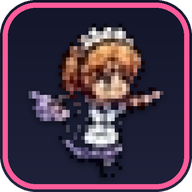
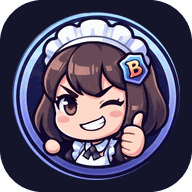
릴리 새 그림 적용: 제목 옆 로고·앱 아이콘은 둥근 배지, 링크 미리보기 새로, 펜라이트 무대 회전 춤·만세, 도쿄 원정 걷기
Claude-Session: https://claude.ai/code/session_015GuvKGyh8ChQWvv6aTLfdb

diff --git a/index.html b/index.html
@@ -63,9 +63,9 @@ body{margin:0;background:var(--bg);color:var(--ink);
 body::before{content:"";position:fixed;inset:0 0 auto;height:env(safe-area-inset-top,0px);z-index:10;background:var(--bg)}
 .wrap{max-width:760px;margin:0 auto;padding:20px 16px 64px}
 h1{font-family:"Black Han Sans","IBM Plex Sans KR",sans-serif;font-weight:400;font-size:34px;line-height:1.1;margin:8px 0 4px;letter-spacing:-.5px}
-/* 사이트 대표 캐릭터 메이드 버스터 릴리(弾幕 자기 그림 assets/game/player.png)를 제목 옆에. CSS 로만 둥실거린다 */
+/* 사이트 대표 캐릭터 메이드 버스터 릴리: 2026-10 말 운영자 새 그림의 둥근 배지(assets/lilly/badge.png, assets/lilly/extract.py)를 제목 옆에. CSS 로만 둥실거린다 */
 .brand{display:flex;align-items:center;gap:10px}
-.brand .lilly{height:54px;width:auto;image-rendering:pixelated;animation:lilly-bob 2.4s ease-in-out infinite;filter:drop-shadow(0 3px 3px rgba(0,0,0,.25));flex:none}
+.brand .lilly{height:52px;width:52px;border-radius:50%;animation:lilly-bob 2.4s ease-in-out infinite;filter:drop-shadow(0 3px 4px rgba(0,0,0,.28));flex:none}
 @keyframes lilly-bob{0%,100%{transform:translateY(0) rotate(-2deg)}50%{transform:translateY(-5px) rotate(2deg)}}
 @media (prefers-reduced-motion:reduce){.brand .lilly{animation:none}}
 .sub{color:var(--muted);margin:0 0 18px;font-size:14px}
@@ -513,7 +513,7 @@ textarea{min-height:110px;resize:vertical}
 </head>
 <body>
 <div class="wrap">
-  <div class="brand"><img class="lilly" src="assets/game/player.png" alt="" width="36" height="41" decoding="async"><h1>마토메 보드</h1></div>
+  <div class="brand"><img class="lilly" src="assets/lilly/badge.png" alt="" width="52" height="52" decoding="async"><h1>마토메 보드</h1></div>
   <div class="topbar">
     <p class="sub" id="storeNote">일본 게임·애니·버튜버·만화 공연과 이벤트 소식</p>
     <div class="langsw" role="group" aria-label="표시 언어"><button type="button" data-lang="ja" aria-pressed="true">原文</button><button type="button" data-lang="ko" aria-pressed="false">한국어</button></div>
@@ -1046,7 +1046,7 @@ async function weekendShot(){
   g.fillStyle=C.pink;g.fillRect(0,0,W,14);
   F(400,84,"Black Han Sans");g.fillStyle=C.ink;g.textBaseline="top";g.fillText("마토메 보드",60,70);
   F(500,34);g.fillStyle=C.mut;g.fillText("일본 게임·애니·버튜버·만화 소식",60,175);
-  try{const im=$(".brand .lilly");if(im&&im.complete&&im.naturalWidth){g.imageSmoothingEnabled=false;g.drawImage(im,W-60-im.naturalWidth*5,50,im.naturalWidth*5,im.naturalHeight*5);g.imageSmoothingEnabled=true}}catch{}
+  try{const im=$(".brand .lilly");if(im&&im.complete&&im.naturalWidth){g.save();g.shadowColor="rgba(0,0,0,.45)";g.shadowBlur=24;g.drawImage(im,W-60-190,46,190,190);g.restore()}}catch{}
   let y=270;
   g.fillStyle=C.sur;g.beginPath();g.roundRect(60,y,W-120,96,20);g.fill();
   F(700,40);g.fillStyle=C.pink;g.fillText("이번 주말",90,y+26);

diff --git a/assets/lilly/og.html b/assets/lilly/og.html
@@ -1,0 +1,25 @@
+<!doctype html><html><head><meta charset="utf-8">
+<!-- 링크 미리보기 그림 assets/og.png(1200×630)의 원본. assets/lilly 폴더를 http 로 띄워 1200×630 창에서 스크린샷한다(poster.jpg·badge.png 는 extract.py 가 만든다). 클라우드 세션의 Chromium 은 Google Fonts 를 못 받으니 그땐 글꼴 woff2 를 따로 받아 @font-face 로 넣는다. -->
+<link href="https://fonts.googleapis.com/css2?family=Black+Han+Sans&family=IBM+Plex+Sans+KR:wght@400;500;700&display=swap" rel="stylesheet">
+<style>
+*{box-sizing:border-box}body{margin:0}
+.og{position:relative;width:1200px;height:630px;overflow:hidden;font-family:"IBM Plex Sans KR",sans-serif;color:#ECEDF6;
+ background:radial-gradient(900px 520px at 0% 0%,#4a1d45 0%,transparent 60%),radial-gradient(700px 500px at 100% 100%,#123e4f 0%,transparent 60%),#13152A}
+.art{position:absolute;right:-30px;top:-20px;width:600px;height:680px;background:url(poster.jpg) 55% 18%/cover;
+ -webkit-mask-image:linear-gradient(90deg,transparent 0,#000 34%);mask-image:linear-gradient(90deg,transparent 0,#000 34%)}
+.art::after{content:"";position:absolute;inset:0;background:linear-gradient(0deg,#13152A 0,transparent 30%)}
+.left{position:absolute;left:84px;top:96px;width:720px}
+.k{font-weight:700;letter-spacing:.18em;font-size:21px;color:#FF5C9A}
+h1{font-family:"Black Han Sans";font-weight:400;font-size:112px;line-height:1.02;margin:14px 0 24px;letter-spacing:-2px;display:flex;align-items:center;gap:20px;white-space:nowrap}
+h1 img{width:104px;height:104px;border-radius:50%;filter:drop-shadow(0 8px 18px rgba(0,0,0,.5))}
+p{font-size:27px;line-height:1.55;margin:0;color:#C9CBE0} p b{color:#fff}
+.chips{display:flex;gap:12px;margin-top:30px}
+.chips span{display:flex;align-items:center;gap:9px;padding:9px 18px;border-radius:999px;background:rgba(255,255,255,.07);border:1px solid rgba(255,255,255,.14);font-size:20px;font-weight:700}
+.chips i{width:11px;height:11px;border-radius:50%}
+.url{position:absolute;left:84px;bottom:46px;font-size:21px;color:#9A9EBB}
+</style></head><body><div class="og"><div class="art"></div><div class="left">
+<div class="k">JAPAN EVENTS · まとめ</div>
+<h1>마토메 보드<img src="badge.png"></h1>
+<p>일본 <b>게임·애니·버튜버·만화</b>의 공연·콜라보·팝업·전시 소식을<br>한곳에 모아 하루 네 번 갱신</p>
+<div class="chips"><span><i style="background:#FF5C9A"></i>공연</span><span><i style="background:#F2B655"></i>콜라보·팝업</span><span><i style="background:#4FC3D9"></i>전시</span><span><i style="background:#A893FF"></i>버튜버</span></div>
+</div><div class="url">davidim-dotcom.github.io/matome-board</div></div></body></html>

diff --git a/games/penlight.html b/games/penlight.html
@@ -92,7 +92,8 @@ const clamp=(v,a,b)=>Math.max(a,Math.min(b,v));
 function fit(){const r=Math.min(3,window.devicePixelRatio||1);cv.width=W*r;cv.height=H*r;cx.setTransform(r,0,0,r,0,0)}fit();
 
 // ---------- 그림(저장소 도트) ----------
-const IMG={};for(const [k,f] of [['lilly','../assets/game/player.png'],['lillyB','../assets/game/skill_b.png'],['sora','../assets/game/hc_sora_m.png'],['miko','../assets/game/hc_miko_m.png'],['cat','../assets/game/cat.png']]){const i=new Image();i.src=f;IMG[k]=i}
+// 릴리 춤(2026-10 말 새 도트, assets/lilly/extract.py): 한 줄에 8칸 — 평소 twirl(회전 춤, 제목·결과에서는 천천히), FEVER jig(만세)
+const IMG={};for(const [k,f] of [['twirl','../assets/lilly/anim_twirl.png'],['jig','../assets/lilly/anim_jig.png'],['sora','../assets/game/hc_sora_m.png'],['miko','../assets/game/hc_miko_m.png'],['cat','../assets/game/cat.png']]){const i=new Image();i.src=f;IMG[k]=i}
 cx.imageSmoothingEnabled=false;
 
 // ---------- 소리(칩튠: ラン 과 같은 방식) ----------
@@ -337,8 +338,9 @@ function drawStage(now,beat){const TH=theme();
   cx.fillStyle='#ffe3f3';cx.font='bold 13px "Black Han Sans",sans-serif';cx.textAlign='center';cx.fillText(SONGS[songI].name,W/2,48);
   cx.font='11px monospace';cx.fillStyle='#b8a8ff';cx.fillText(G.state==='play'?`${LEVELS[lvI].name}  COMBO ${G.combo}`:'PENLIGHT ON STAGE',W/2,68);
   // 아이돌(릴리)·백댄서
-  const bob=Math.abs(Math.sin(beat*Math.PI))*6;const L=fever?IMG.lillyB:IMG.lilly;
-  if(L.complete&&L.naturalWidth){const s=2.4;cx.drawImage(L,W/2-L.naturalWidth*s/2,184-L.naturalHeight*s-bob,L.naturalWidth*s,L.naturalHeight*s)}
+  const L=fever?IMG.jig:IMG.twirl;
+  if(L.complete&&L.naturalWidth){const fw=L.naturalWidth/8,fh=L.naturalHeight,f=(G.state==='play'?Math.floor(beat*2):G.state==='pause'?Math.floor(G.pauseAt*2):Math.floor(now*3))%8,s=112/fh; // 박자에 두 칸씩(4박에 한 바퀴)
+    cx.drawImage(L,((f%8)+8)%8*fw,0,fw,fh,W/2-fw*s/2,186-fh*s,fw*s,fh*s)}
   for(const [k,x,ph] of [['sora',96,0],['miko',264,.5]]){const im=IMG[k];if(im.complete&&im.naturalWidth){const s=2.2,b=Math.abs(Math.sin((beat+ph)*Math.PI))*5;cx.drawImage(im,x-im.naturalWidth*s/2,184-im.naturalHeight*s-b,im.naturalWidth*s,im.naturalHeight*s)}}
   // 콜 글자
   if(G.callText&&G.callText.t<1.1){const k=G.callText.t;cx.save();cx.globalAlpha=1-Math.max(0,k-.6)/.5;cx.font=`bold ${28+k*14}px "Black Han Sans",sans-serif`;cx.fillStyle='#fff';cx.strokeStyle='#ff4f9a';cx.lineWidth=5;cx.textAlign='center';cx.strokeText(G.callText.text,W/2,120);cx.fillText(G.callText.text,W/2,120);cx.restore()}}

diff --git a/games/ensei.html b/games/ensei.html
@@ -213,8 +213,9 @@ function renderMap(){cx.clearRect(0,0,W,H);cx.fillStyle=css('--sea')||'#0f1124';
     cx.fillStyle='#fff';cx.font='bold 11px sans-serif';cx.textAlign='center';cx.fillText(done?'✓':String(sp.i+1),x,y+4);cx.globalAlpha=1}
   // 지금 위치(이동 중이면 사이)
   let at=proj([S.at.lat,S.at.lon]);if(S.anim){const k=Math.min(1,(performance.now()-S.anim.t0)/S.anim.dur),a=proj([S.anim.from.lat,S.anim.from.lon]),b=proj([S.anim.to.lat,S.anim.to.lon]);at=[a[0]+(b[0]-a[0])*k,a[1]+(b[1]-a[1])*k-Math.sin(k*Math.PI)*16]}
-  if(ME.complete&&ME.naturalWidth){cx.imageSmoothingEnabled=false;cx.drawImage(ME,at[0]-ME.naturalWidth*.7,at[1]-ME.naturalHeight*1.4,ME.naturalWidth*1.4,ME.naturalHeight*1.4)}else{cx.fillStyle=css('--pink');cx.beginPath();cx.arc(at[0],at[1],6,0,Math.PI*2);cx.fill()}}
-const ME=new Image();ME.src='../assets/game/player.png';ME.onload=()=>S&&renderMap();
+  if(ME.complete&&ME.naturalWidth){const fw=ME.naturalWidth/8,fh=ME.naturalHeight,s=50/fh,f=S.anim?Math.floor(performance.now()/90)%8:0,left=S.anim&&S.anim.to.lon<S.anim.from.lon; // 걷기 8칸, 이동 중에만 걷고 왼쪽으로 가면 뒤집는다
+    cx.save();cx.translate(at[0],at[1]);if(left)cx.scale(-1,1);cx.drawImage(ME,f*fw,0,fw,fh,-fw*s/2,-fh*s,fw*s,fh*s);cx.restore()}else{cx.fillStyle=css('--pink');cx.beginPath();cx.arc(at[0],at[1],6,0,Math.PI*2);cx.fill()}}
+const ME=new Image();ME.src='../assets/lilly/anim_walk.png';ME.onload=()=>S&&renderMap();
 function animate(){renderMap();if(S.anim)requestAnimationFrame(animate)}
 cv.addEventListener('click',e=>{if(S.over)return;const r=cv.getBoundingClientRect(),x=(e.clientX-r.left)*W/r.width,y=(e.clientY-r.top)*H/r.height;let best=null,bd=22;
   for(const sp of spots){const [px,py]=proj([sp.lat,sp.lon]),d=Math.hypot(px-x,py-y);if(d<bd){bd=d;best=sp}}if(best){S.sel=best.i;render();renderMap()}});

diff --git a/assets/lilly/extract.py b/assets/lilly/extract.py
@@ -1,0 +1,151 @@
+"""메이드 버스터 릴리 새 그림(2026-10 말, 운영자가 Gemini 로 만든 시트)을 잘라 보드에 쓸 PNG 로 만든다.
+
+  python3 assets/lilly/extract.py        # assets/lilly/*.png 와 앱 아이콘(assets/icon-*.png, apple-touch-icon.png)을 다시 씀
+
+src/poster.jpg  (2816×1536): 가운데 포스터(날개 달고 쏘는 릴리)와 오른쪽 둥근 배지(윙크·엄지척 얼굴)
+src/dossier.jpg (2816×1536): 9열×8행 도트 애니메이션 시트(대기·인사·기지개·걷기·달리기·대시·회전 춤·만세·테크노),
+                              칸마다 남색 우주 배경 + 격자선
+결과
+  badge.png        둥근 배지 512px(원 밖 투명) — 제목 옆 로고·아이콘·주말 한 장
+  poster.png       포스터 윗부분(글자 위까지) — og 그림용
+  anim_<이름>.png  애니메이션 한 줄(프레임 8칸, 칸 크기는 그 애니메이션 프레임들을 다 담는 상자, 발 기준 아래 정렬)
+                   + anim.json {이름: [칸 폭, 칸 높이, 프레임 수]}
+배경 지우기: 칸 가장자리에서 시작해 배경색(칸 가장자리 중앙값)에서 가까운 어두운 색만 flood 로 지우고,
+남은 것 중 큰 덩어리(몸통)와 그 근처 덩어리만 둔다(별·성운 점은 작아서 빠진다).
+"""
+import json, os
+from collections import deque
+import numpy as np
+from PIL import Image, ImageDraw, ImageFilter
+
+HERE = os.path.dirname(os.path.abspath(__file__))
+ROOT = os.path.dirname(os.path.dirname(HERE))
+SRC = os.path.join(HERE, 'src')
+
+# 시트 격자(2816 폭 기준, 격자선 사이 칸 안쪽)
+COLS = [(41, 311), (343, 627), (658, 928), (960, 1241), (1273, 1542), (1575, 1826), (1859, 2136), (2169, 2445), (2478, 2750)]
+ROWS = [(145, 298), (303, 455), (459, 615), (620, 759), (764, 913), (917, 1062), (1067, 1217), (1222, 1368)]
+ANIMS = {'walk': 3, 'twirl': 6, 'jig': 7}  # 열 번호. 대기(0)·인사(1)는 상반신 그림이라 무대에 안 맞고, 달리기(4)·대시(5)는 먼지·잔상이 몸에 붙어 깨끗이 안 떨어져서 뺐다. 필요하면 여기 더하고 다시 돌린다
+
+
+def cut_cell(a):
+    """칸 하나(RGB 배열) → RGBA. 배경 flood + 큰 덩어리만."""
+    h, w, _ = a.shape
+    ai = a.astype(int)
+    edge = np.concatenate([ai[:3].reshape(-1, 3), ai[-3:].reshape(-1, 3), ai[:, :3].reshape(-1, 3), ai[:, -3:].reshape(-1, 3)])
+    bg = np.median(edge, 0)
+    dist = np.sqrt(((ai - bg) ** 2).sum(2))
+    lum = ai.mean(2)
+    cand = (dist < 34) & (lum < 70)          # 배경 후보: 배경색 근처의 어두운 색
+    seen = np.zeros((h, w), bool)
+    q = deque()
+    for y in range(h):
+        for x in (0, w - 1):
+            if cand[y, x] and not seen[y, x]: seen[y, x] = True; q.append((y, x))
+    for x in range(w):
+        for y in (0, h - 1):
+            if cand[y, x] and not seen[y, x]: seen[y, x] = True; q.append((y, x))
+    while q:
+        y, x = q.popleft()
+        for yy, xx in ((y + 1, x), (y - 1, x), (y, x + 1), (y, x - 1)):
+            if 0 <= yy < h and 0 <= xx < w and cand[yy, xx] and not seen[yy, xx]:
+                seen[yy, xx] = True; q.append((yy, xx))
+    fg = ~seen
+    # 덩어리 나누기
+    lab = np.zeros((h, w), int); n = 0; sizes = [0]; boxes = [None]
+    for y in range(h):
+        for x in range(w):
+            if fg[y, x] and not lab[y, x]:
+                n += 1; lab[y, x] = n; q = deque([(y, x)]); c = 0; y0 = y1 = y; x0 = x1 = x
+                while q:
+                    cy, cx = q.popleft(); c += 1; y0 = min(y0, cy); y1 = max(y1, cy); x0 = min(x0, cx); x1 = max(x1, cx)
+                    for yy, xx in ((cy + 1, cx), (cy - 1, cx), (cy, cx + 1), (cy, cx - 1)):
+                        if 0 <= yy < h and 0 <= xx < w and fg[yy, xx] and not lab[yy, xx]:
+                            lab[yy, xx] = n; q.append((yy, xx))
+                sizes.append(c); boxes.append((x0, y0, x1, y1))
+    if n == 0:
+        return None
+    big = int(np.argmax(sizes))
+    bx0, by0, bx1, by1 = boxes[big]
+    keep = np.zeros((h, w), bool)
+    for i in range(1, n + 1):
+        x0, y0, x1, y1 = boxes[i]
+        near = x1 >= bx0 - 10 and x0 <= bx1 + 10 and y1 >= by0 - 10 and y0 <= by1 + 10
+        if i == big or (sizes[i] >= 40 and near):
+            keep |= lab == i
+    out = np.dstack([a, (keep * 255).astype(np.uint8)])
+    im = Image.fromarray(out, 'RGBA')
+    # 가장자리 1px 을 살짝 부드럽게(JPEG 번짐 테두리)
+    al = im.getchannel('A').filter(ImageFilter.MinFilter(3)).filter(ImageFilter.GaussianBlur(.6))
+    im.putalpha(al)
+    return im.crop(im.getbbox())
+
+
+def anims():
+    sheet = np.asarray(Image.open(os.path.join(SRC, 'dossier.jpg')).convert('RGB'))
+    meta = {}
+    for name, col in ANIMS.items():
+        x0, x1 = COLS[col]
+        frames = [cut_cell(sheet[y0:y1, x0:x1]) for (y0, y1) in ROWS]
+        frames = [f for f in frames if f is not None]
+        fw = max(f.width for f in frames) + 2; fh = max(f.height for f in frames) + 2
+        strip = Image.new('RGBA', (fw * len(frames), fh), (0, 0, 0, 0))
+        for i, f in enumerate(frames):
+            strip.paste(f, (i * fw + (fw - f.width) // 2, fh - f.height - 1), f)  # 발 기준 아래 정렬·가운데
+        q = strip.quantize(colors=96, method=Image.Quantize.FASTOCTREE, dither=Image.Dither.NONE)  # 도트 그림이라 96색이면 충분, 파일이 1/3
+        q.save(os.path.join(HERE, f'anim_{name}.png'), optimize=True)
+        meta[name] = [fw, fh, len(frames)]
+        print(name, fw, fh, len(frames))
+    with open(os.path.join(HERE, 'anim.json'), 'w') as f:
+        json.dump(meta, f)
+
+
+def badge():
+    im = Image.open(os.path.join(SRC, 'poster.jpg')).convert('RGB')
+    s = im.width / 2000
+    crop = im.crop((int(1480 * s), int(250 * s), int(1960 * s), int(720 * s)))
+    cx, cy, R = 334.2, 325.3, 318          # 바깥 고리까지(고리 색으로 원을 맞춰 잼)
+    box = (int(cx - R), int(cy - R), int(cx + R), int(cy + R))
+    sq = crop.crop(box)
+    S = 4 * sq.width
+    m = Image.new('L', (S, S), 0); ImageDraw.Draw(m).ellipse((2, 2, S - 3, S - 3), fill=255)
+    m = m.resize(sq.size, Image.LANCZOS)
+    sq = sq.convert('RGBA'); sq.putalpha(m)
+    out = sq.resize((512, 512), Image.LANCZOS)
+    out.resize((256, 256), Image.LANCZOS).quantize(256, method=Image.Quantize.FASTOCTREE).save(os.path.join(HERE, 'badge.png'), optimize=True)  # 페이지에는 최대 96px 로만 쓴다
+    return out
+
+
+def poster():
+    im = Image.open(os.path.join(SRC, 'poster.jpg')).convert('RGB')
+    s = im.width / 2000
+    p = im.crop((int(672 * s), int(38 * s), int(1418 * s), int(840 * s)))  # 'LILLY BUSTERS' 글자 위까지
+    p = p.resize((p.width * 900 // p.height, 900), Image.LANCZOS)
+    p.save(os.path.join(HERE, 'poster.jpg'), quality=86, optimize=True)
+
+
+def icons(b):
+    BG = (19, 21, 42)
+    def tile(size, pad, rounded):
+        t = Image.new('RGBA', (size, size), (0, 0, 0, 0))
+        if rounded:
+            k = 4 * size; mm = Image.new('L', (k, k), 0); ImageDraw.Draw(mm).rounded_rectangle((0, 0, k - 1, k - 1), radius=k * .22, fill=255)
+            bgl = Image.new('RGBA', (size, size), BG + (255,)); bgl.putalpha(mm.resize((size, size), Image.LANCZOS)); t.alpha_composite(bgl)
+        else:
+            t = Image.new('RGBA', (size, size), BG + (255,))
+        inner = int(size * (1 - 2 * pad))
+        bb = b.resize((inner, inner), Image.LANCZOS)
+        t.alpha_composite(bb, ((size - inner) // 2, (size - inner) // 2))
+        return t
+    q = lambda im: im.quantize(256, method=Image.Quantize.FASTOCTREE)  # 256색이면 눈으로 차이가 없고 파일이 1/3
+    q(tile(512, .06, True)).save(os.path.join(ROOT, 'assets', 'icon-512.png'), optimize=True)
+    q(tile(192, .06, True)).save(os.path.join(ROOT, 'assets', 'icon-192.png'), optimize=True)
+    tile(180, .07, False).convert('RGB').quantize(256).save(os.path.join(ROOT, 'assets', 'apple-touch-icon.png'), optimize=True)
+    tile(512, .14, False).convert('RGB').quantize(256).save(os.path.join(ROOT, 'assets', 'icon-maskable-512.png'), optimize=True)  # 안전 영역(가운데 80%) 안
+
+
+if __name__ == '__main__':
+    anims()
+    b = badge()
+    poster()
+    icons(b)

diff --git a/README.md b/README.md
@@ -160,6 +160,10 @@ X(트위터)에서 지금 화제인 이야기를 **Togetter**(X 게시물을 사
 
 캘린더 탭 위 카드의 **📊 기간 행사**는 팝업·전시·콜라보처럼 기간이 있는 행사를 오늘부터 6주 막대로 늘어놓아 무엇이 언제 끝나는지 보여 줍니다(7일 안에 끝나면 분홍). **☕ 콜라보 카페**는 제목에 카페·식당·메뉴 말이 있는 소식을 진행 중 / 곧 시작 / 날짜 미정으로 나눠 그림으로 모아 보여 줍니다. 둘 다 누르면 소식 카드가 열립니다.
 
+## 릴리 그림
+
+사이트 대표 캐릭터 메이드 버스터 릴리의 그림은 `assets/lilly/src/`의 시트 두 장(포스터·배지 / 도트 애니메이션)에서 `python3 assets/lilly/extract.py`로 잘라 만듭니다. 제목 옆 로고·앱 아이콘은 둥근 배지, 펜라이트 무대에서는 회전 춤(FEVER 때 만세), 도쿄 원정 지도에서는 걷기 그림, 링크 미리보기(`assets/og.png`)는 포스터를 씁니다. 시트를 새로 그려 오면 같은 이름으로 바꾸고 스크립트를 다시 돌리면 됩니다(격자 칸 위치가 다르면 `COLS`·`ROWS`를 고칩니다).
+
 ## 성지순례 지도
 
 피드의 도쿄 지도에서 **⛩ 성지**를 켜면 애니·만화의 무대가 된 곳과 동상·기념관 같은 명소가 ⛩로 찍힙니다. 누르면 어떤 작품의 어떤 장면인지와 **근처 2km 안에서 지금 열리는 행사**가 나오고, 작품 이름을 누르면 작품 허브로 갑니다. 작품 허브에도 그 작품의 성지가 '⛩ 성지' 칸으로 나옵니다(수도권 밖 장소는 지도 아래 목록과 구글 지도 링크로). 장소 목록은 사람이 고치는 `data/seichi.json`입니다: `works`에 작품 이름 → 한국어 이름, `spots`에 `{"n":"장소","w":["작품"],"geo":[위도,경도],"a":"지역","d":"한 줄 설명","t":"배경"|"명소"}`. 좌표는 대략값이라 틀리면 고치면 됩니다.
